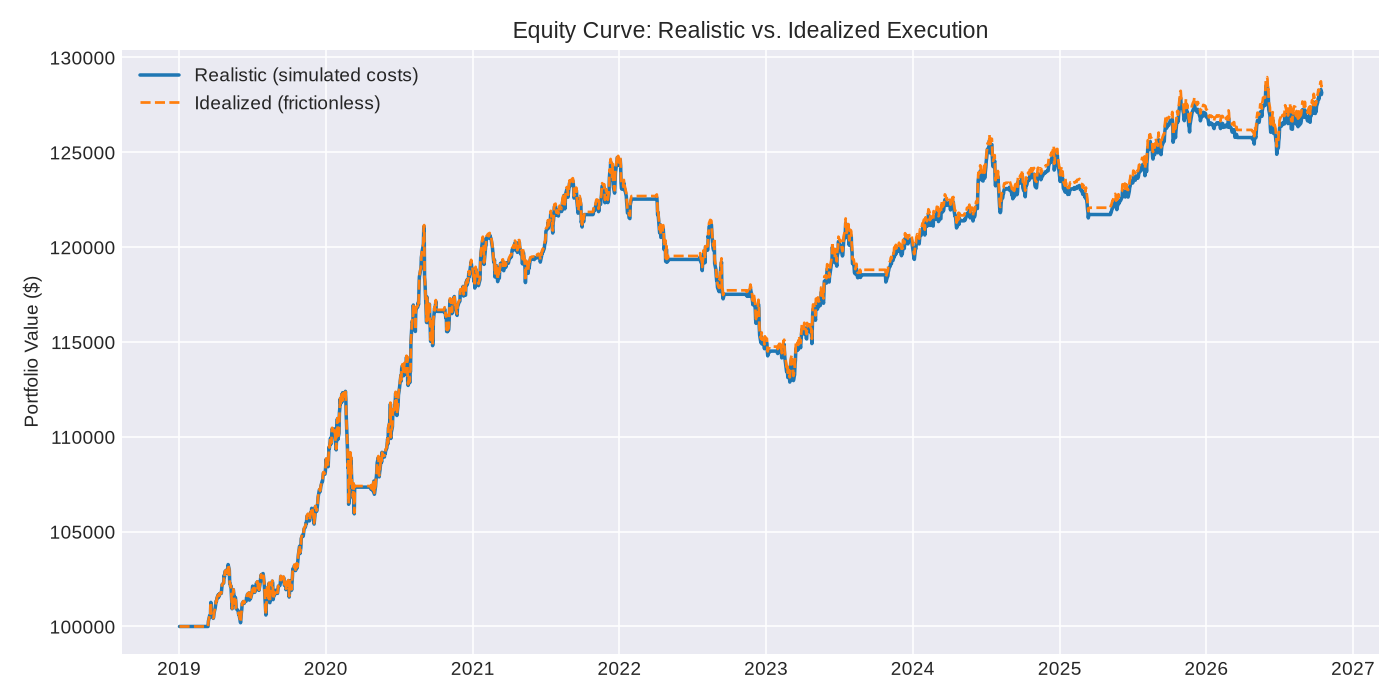
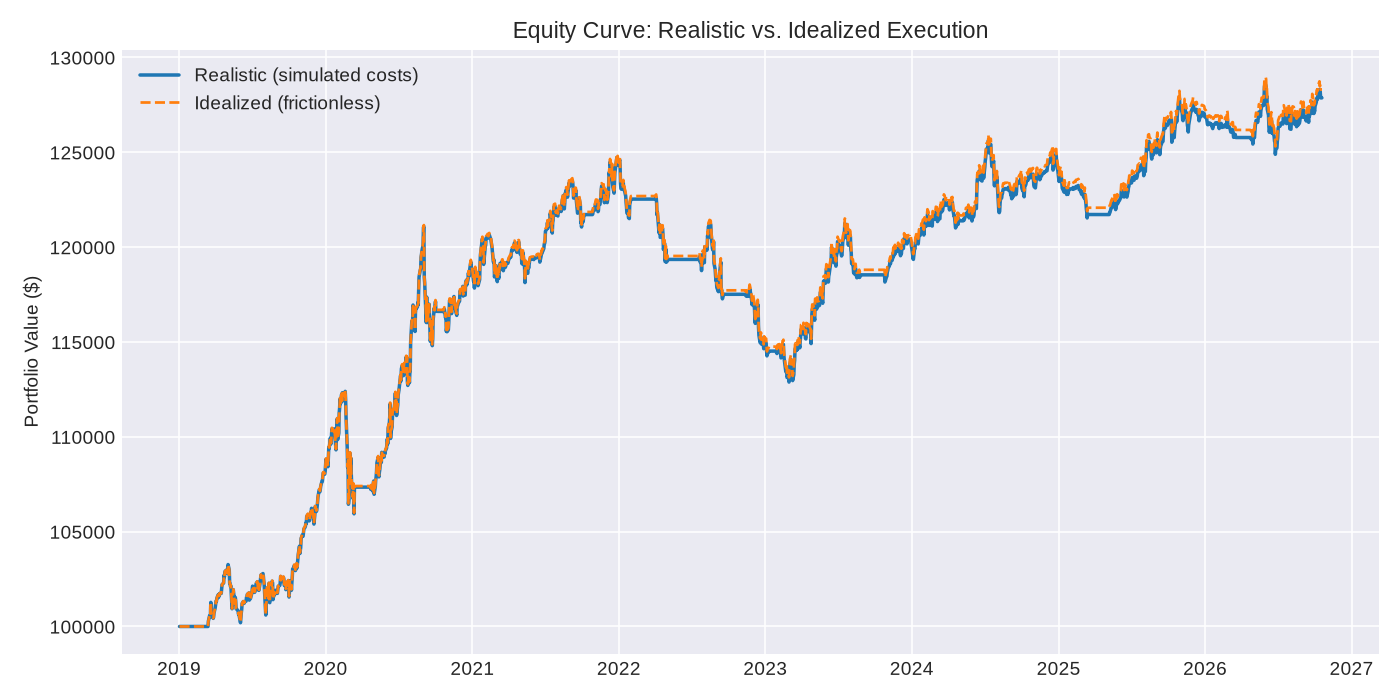
deploy: 26861bc8c3bbddc813ac299f2afb543010407697

diff --git a/index.html b/index.html
@@ -11,9 +11,9 @@ img { max-width: 100%; margin-bottom: 24px; border: 1px solid #30363d; border-ra
 </style></head>
 <body>
 <h1>Event-Driven Backtest Tearsheet</h1>
-<p class="timestamp">Auto-generated 2026-10-16 23:43 UTC — this page regenerates every scheduled run, no manual step involved.</p>
+<p class="timestamp">Auto-generated 2026-10-20 00:28 UTC — this page regenerates every scheduled run, no manual step involved.</p>
 <h2>Summary</h2>
-<table><tr><td>Initial Capital</td><td>100000</td></tr><tr><td>Final Equity Realistic</td><td>128,159.8723</td></tr><tr><td>Final Equity Idealized</td><td>128,592.6720</td></tr><tr><td>Realistic Pnl</td><td>28,159.8723</td></tr><tr><td>Idealized Pnl</td><td>28,592.6720</td></tr><tr><td>Execution Cost Drag</td><td>432.7996</td></tr><tr><td>Execution Cost Drag Pct Of Idealized</td><td>0.0151</td></tr><tr><td>Total Return Pct</td><td>0.2816</td></tr><tr><td>Annualized Return</td><td>0.0324</td></tr><tr><td>Sharpe Ratio</td><td>0.7509</td></tr><tr><td>Sortino Ratio</td><td>0.8245</td></tr><tr><td>Max Drawdown</td><td>-0.0950</td></tr><tr><td>Turnover</td><td>10.4683</td></tr><tr><td>Num Fills</td><td>121</td></tr><tr><td>Total Slippage Dollars</td><td>311.4375</td></tr><tr><td>Total Commission Dollars</td><td>121.3621</td></tr><tr><td>Avg Latency Ms</td><td>81.8016</td></tr><tr><td>Num Partial Fills</td><td>0</td></tr></table>
+<table><tr><td>Initial Capital</td><td>100000</td></tr><tr><td>Final Equity Realistic</td><td>127,869.3174</td></tr><tr><td>Final Equity Idealized</td><td>128,302.1170</td></tr><tr><td>Realistic Pnl</td><td>27,869.3174</td></tr><tr><td>Idealized Pnl</td><td>28,302.1170</td></tr><tr><td>Execution Cost Drag</td><td>432.7996</td></tr><tr><td>Execution Cost Drag Pct Of Idealized</td><td>0.0153</td></tr><tr><td>Total Return Pct</td><td>0.2787</td></tr><tr><td>Annualized Return</td><td>0.0321</td></tr><tr><td>Sharpe Ratio</td><td>0.7437</td></tr><tr><td>Sortino Ratio</td><td>0.8169</td></tr><tr><td>Max Drawdown</td><td>-0.0950</td></tr><tr><td>Turnover</td><td>10.4675</td></tr><tr><td>Num Fills</td><td>121</td></tr><tr><td>Total Slippage Dollars</td><td>311.4375</td></tr><tr><td>Total Commission Dollars</td><td>121.3621</td></tr><tr><td>Avg Latency Ms</td><td>81.8016</td></tr><tr><td>Num Partial Fills</td><td>0</td></tr></table>
 <h2>Equity Curve</h2>
 <img src="equity_curve.png">
 <h2>Drawdown</h2>
